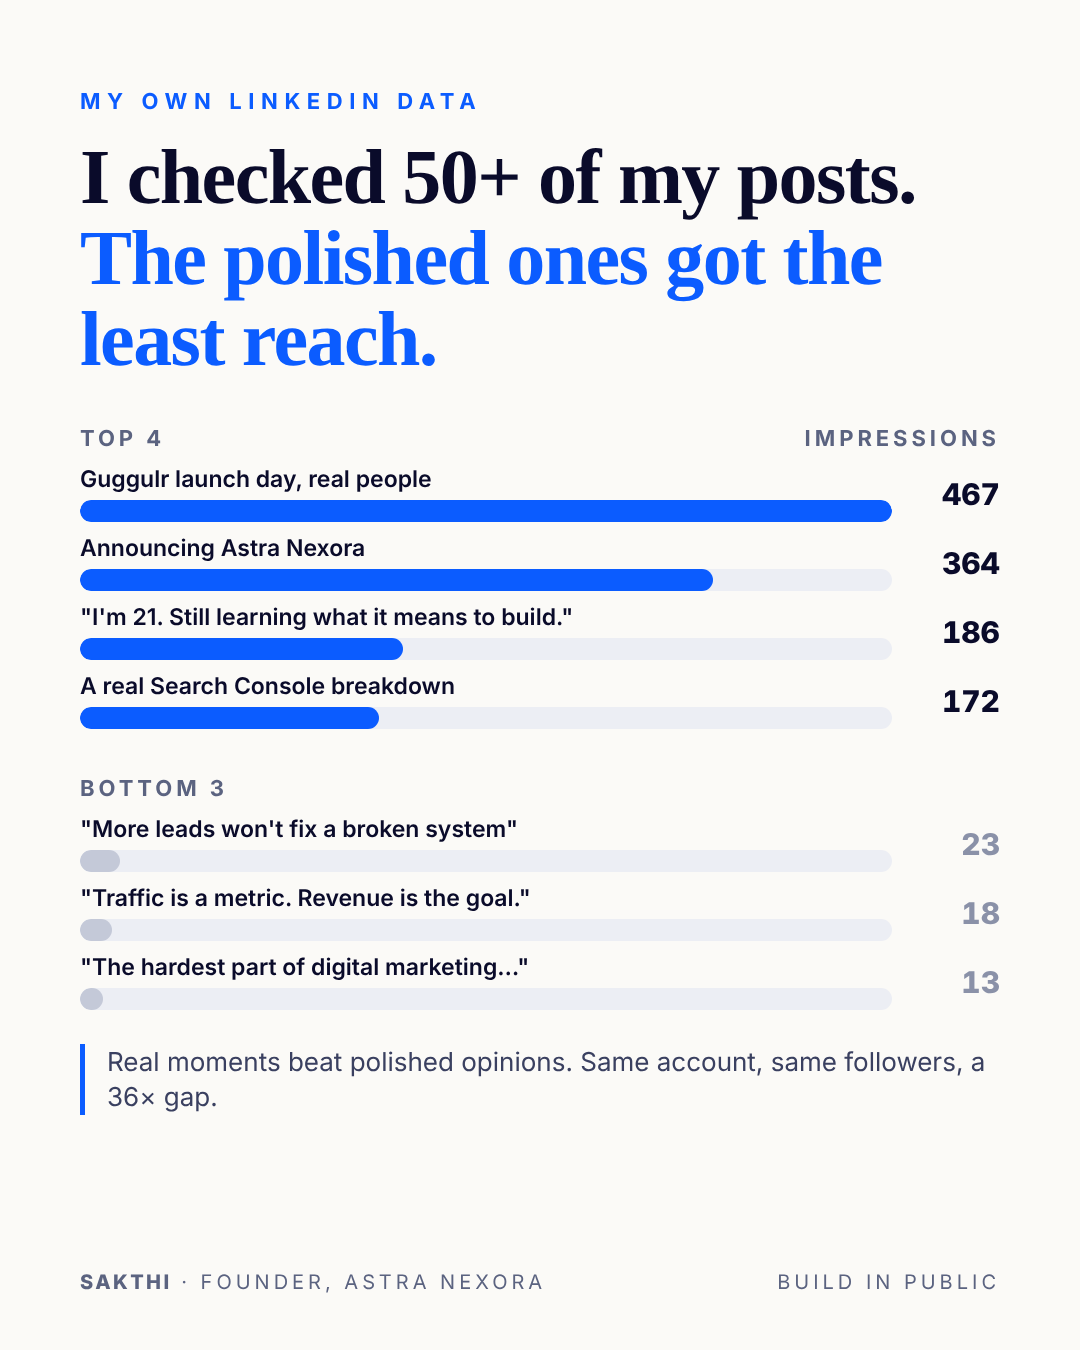
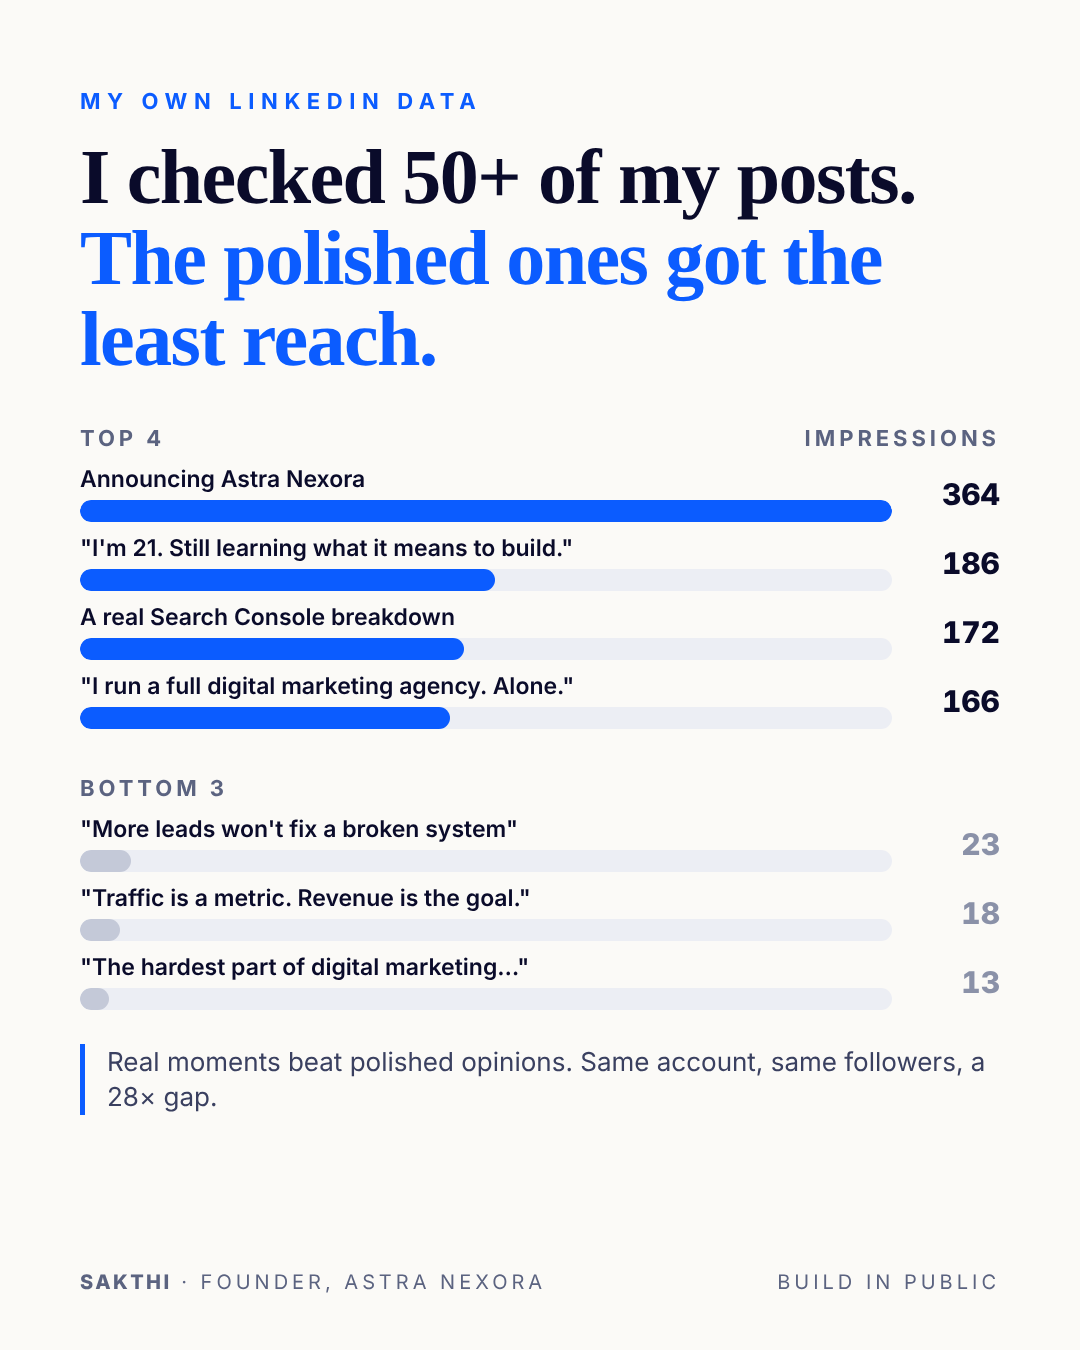
Social agent: never mention Guggulr
Removes it from the 5 Nov poster and caption and the month plan, and adds
a neverMention rule to config, the caption prompt and the routine.

Claude-Session: https://claude.ai/code/session_01NT32g7Mb5uynZuM8ztYe1e

diff --git a/social-agent/linkedin/posters/2026-11-05.html b/social-agent/linkedin/posters/2026-11-05.html
@@ -20,18 +20,18 @@ h1 em { font-style: normal; color: #0b5cff; }
 <h1>I checked 50+ of my posts. <em>The polished ones got the least reach.</em></h1>
 
 <div class="group"><h2><span>Top 4</span><span>Impressions</span></h2>
-  <div class="row"><div><div class="lab">Guggulr launch day, real people</div><div class="track"><div class="fill" style="width:100%"></div></div></div><div class="num">467</div></div>
-  <div class="row"><div><div class="lab">Announcing Astra Nexora</div><div class="track"><div class="fill" style="width:78%"></div></div></div><div class="num">364</div></div>
-  <div class="row"><div><div class="lab">"I'm 21. Still learning what it means to build."</div><div class="track"><div class="fill" style="width:39.8%"></div></div></div><div class="num">186</div></div>
-  <div class="row"><div><div class="lab">A real Search Console breakdown</div><div class="track"><div class="fill" style="width:36.8%"></div></div></div><div class="num">172</div></div>
+  <div class="row"><div><div class="lab">Announcing Astra Nexora</div><div class="track"><div class="fill" style="width:100%"></div></div></div><div class="num">364</div></div>
+  <div class="row"><div><div class="lab">"I'm 21. Still learning what it means to build."</div><div class="track"><div class="fill" style="width:51.1%"></div></div></div><div class="num">186</div></div>
+  <div class="row"><div><div class="lab">A real Search Console breakdown</div><div class="track"><div class="fill" style="width:47.3%"></div></div></div><div class="num">172</div></div>
+  <div class="row"><div><div class="lab">"I run a full digital marketing agency. Alone."</div><div class="track"><div class="fill" style="width:45.6%"></div></div></div><div class="num">166</div></div>
 </div>
 
 <div class="group low"><h2><span>Bottom 3</span><span></span></h2>
-  <div class="row"><div><div class="lab">"More leads won't fix a broken system"</div><div class="track"><div class="fill" style="width:4.9%"></div></div></div><div class="num">23</div></div>
-  <div class="row"><div><div class="lab">"Traffic is a metric. Revenue is the goal."</div><div class="track"><div class="fill" style="width:3.9%"></div></div></div><div class="num">18</div></div>
-  <div class="row"><div><div class="lab">"The hardest part of digital marketing…"</div><div class="track"><div class="fill" style="width:2.8%"></div></div></div><div class="num">13</div></div>
+  <div class="row"><div><div class="lab">"More leads won't fix a broken system"</div><div class="track"><div class="fill" style="width:6.3%"></div></div></div><div class="num">23</div></div>
+  <div class="row"><div><div class="lab">"Traffic is a metric. Revenue is the goal."</div><div class="track"><div class="fill" style="width:4.9%"></div></div></div><div class="num">18</div></div>
+  <div class="row"><div><div class="lab">"The hardest part of digital marketing…"</div><div class="track"><div class="fill" style="width:3.6%"></div></div></div><div class="num">13</div></div>
 </div>
 
-<p class="note">Real moments beat polished opinions. Same account, same followers, a 36× gap.</p>
+<p class="note">Real moments beat polished opinions. Same account, same followers, a 28× gap.</p>
 <div class="sign"><span><b>Sakthi</b> · Founder, Astra Nexora</span><span>Build in public</span></div>
 </body></html>

diff --git a/social-agent/src/content.js b/social-agent/src/content.js
@@ -43,7 +43,8 @@ Rules:
 - Give advice that is correct and current; prefer specific, doable actions over vague motivation.
 - Write in English for an Indian business audience. Use Indian context (Google Maps searches, WhatsApp enquiries, local shops and clinics) where it helps.
 - No emojis on the poster text. Captions may use a few emojis, sparingly.
-- Every caption must stand on its own; do not refer to "the image above".`;
+- Every caption must stand on its own; do not refer to "the image above".
+- Never mention these names, or anything related to them, anywhere: ${(brand.neverMention ?? []).join(", ") || "(none)"}.`;
 }
 
 export async function writePost({ config, date, pillar, recentTopics }) {

diff --git a/social-agent/linkedin-plan-2026-11.md b/social-agent/linkedin-plan-2026-11.md
@@ -20,7 +20,7 @@ No invented numbers or client results. "You" in the Media column means a photo o
 | 12 | Sat 14 Nov | Question | Which platform brings you the most enquiries? | "Instagram, Google, WhatsApp or word of mouth?" | None |
 | 13 | Sun 15 Nov | Personal | My tool stack | "The 6 tools I use every day to run Astra Nexora:" | Collage |
 | 14 | Mon 16 Nov | Tip | Local SEO: getting into "near me" searches | "'Near me' searches are buyers, not browsers." | Poster |
-| 15 | Tue 17 Nov | Case study | Guggulr festive creatives | "Festive season creatives: what makes people stop scrolling." | Designs |
+| 15 | Tue 17 Nov | Case study | Ankhor Dental Lab homepage speed (294 KB → 6.8 KB) | "Same homepage. 294 KB → 6.8 KB. Here's what we removed." | Before/after |
 | 16 | Wed 18 Nov | Myth vs fact | "More followers means more sales" | "Myth: more followers = more sales." | Poster |
 | 17 | Thu 19 Nov | Tip | Turning missed calls into bookings with WhatsApp | "Every missed call is a customer calling your competitor next." | Poster |
 | 18 | Fri 20 Nov | Tip | Personal branding for doctors and founders | "People trust people before they trust brands." | Poster |
@@ -39,6 +39,8 @@ No invented numbers or client results. "You" in the Media column means a photo o
 
 ## Notes
 
-- Posts 3, 10, 15 and 19 reuse real work from the portfolio (Akeela, ProPedoZR, Guggulr). The Akeela WhatsApp, Ankhor and design-gallery posts (31 Oct – 2 Nov) are already scheduled, so these posts take a different angle.
+- **Never mention Guggulr** anywhere, and never post anything related to it.
+
+- Posts 3, 10, 15 and 19 reuse real work (Akeela, ProPedoZR, Ankhor). The Akeela WhatsApp, Ankhor and design-gallery posts (31 Oct – 2 Nov) are already scheduled, so these posts take a different angle.
 - Post 28 needs real figures from LinkedIn analytics on 30 Nov; if there are none to share, it becomes a lessons-only post.
 - Post 29 is only worth posting if you can actually take on 5 free audits.

diff --git a/social-agent/linkedin/week-2026-11-03.md b/social-agent/linkedin/week-2026-11-03.md
@@ -10,6 +10,7 @@ Profile: Saktheeswaran S. Post at 10:00 AM IST, except the poll.
 - **Talk to buyers** (clinic owners, business owners), not other marketers.
 - **No links in the post body.** Put them in the first comment.
 - **3 hashtags.** No "comment KEYWORD" bait.
+- **Never mention Guggulr**, in any post, caption, poster, comment or link, and never post anything related to it.
 - **After posting:** reply to every comment within the first hour, and spend 15 minutes commenting on clinic owners' and founders' posts.
 
 | Day | Type | Poster | Made by |
@@ -84,12 +85,12 @@ My lowest posts (13, 18, 23 impressions) were polished opinions:
 "More leads won't fix a broken system."
 
 My highest posts were:
-→ Guggulr's launch day, with the real people who made it happen (467)
 → The day I announced Astra Nexora (364)
 → An honest post about still learning at 21 (186)
 → A real Search Console breakdown (172)
+→ "I run a full digital marketing agency. Alone." (166)
 
-Same account. Same followers. A 36× gap.
+Same account. Same followers. A 28× gap.
 
 People don't follow opinions. They follow real work, real moments and real numbers.
 
@@ -141,7 +142,7 @@ Poll options:
 
 ## Sun 8 Nov: personal post with a real photo
 
-Needs from Sakthi: one real photo (at work, at a client's place, or Guggulr's launch day) and 2–3 lines about that moment: where, what happened, what you felt. The caption gets written around it.
+Needs from Sakthi: one real photo (at work, at a client's place, or at an event) and 2–3 lines about that moment: where, what happened, what you felt. The caption gets written around it.
 
 ## Mon 9 Nov: myth vs fact
 

diff --git a/social-agent/ROUTINE.md b/social-agent/ROUTINE.md
@@ -21,7 +21,8 @@ The routine prompt is: "Follow social-agent/ROUTINE.md for tomorrow's post."
    from those.
 4. Write `output/post.json` with exactly this shape (the rules in
    `systemPrompt` and the field descriptions in `src/content.js` apply - no
-   invented statistics, client names, results or testimonials):
+   invented statistics, client names, results or testimonials, and never
+   mention any name in `config.json` `brand.neverMention`, e.g. Guggulr):
    ```json
    {
      "topic": "...",
